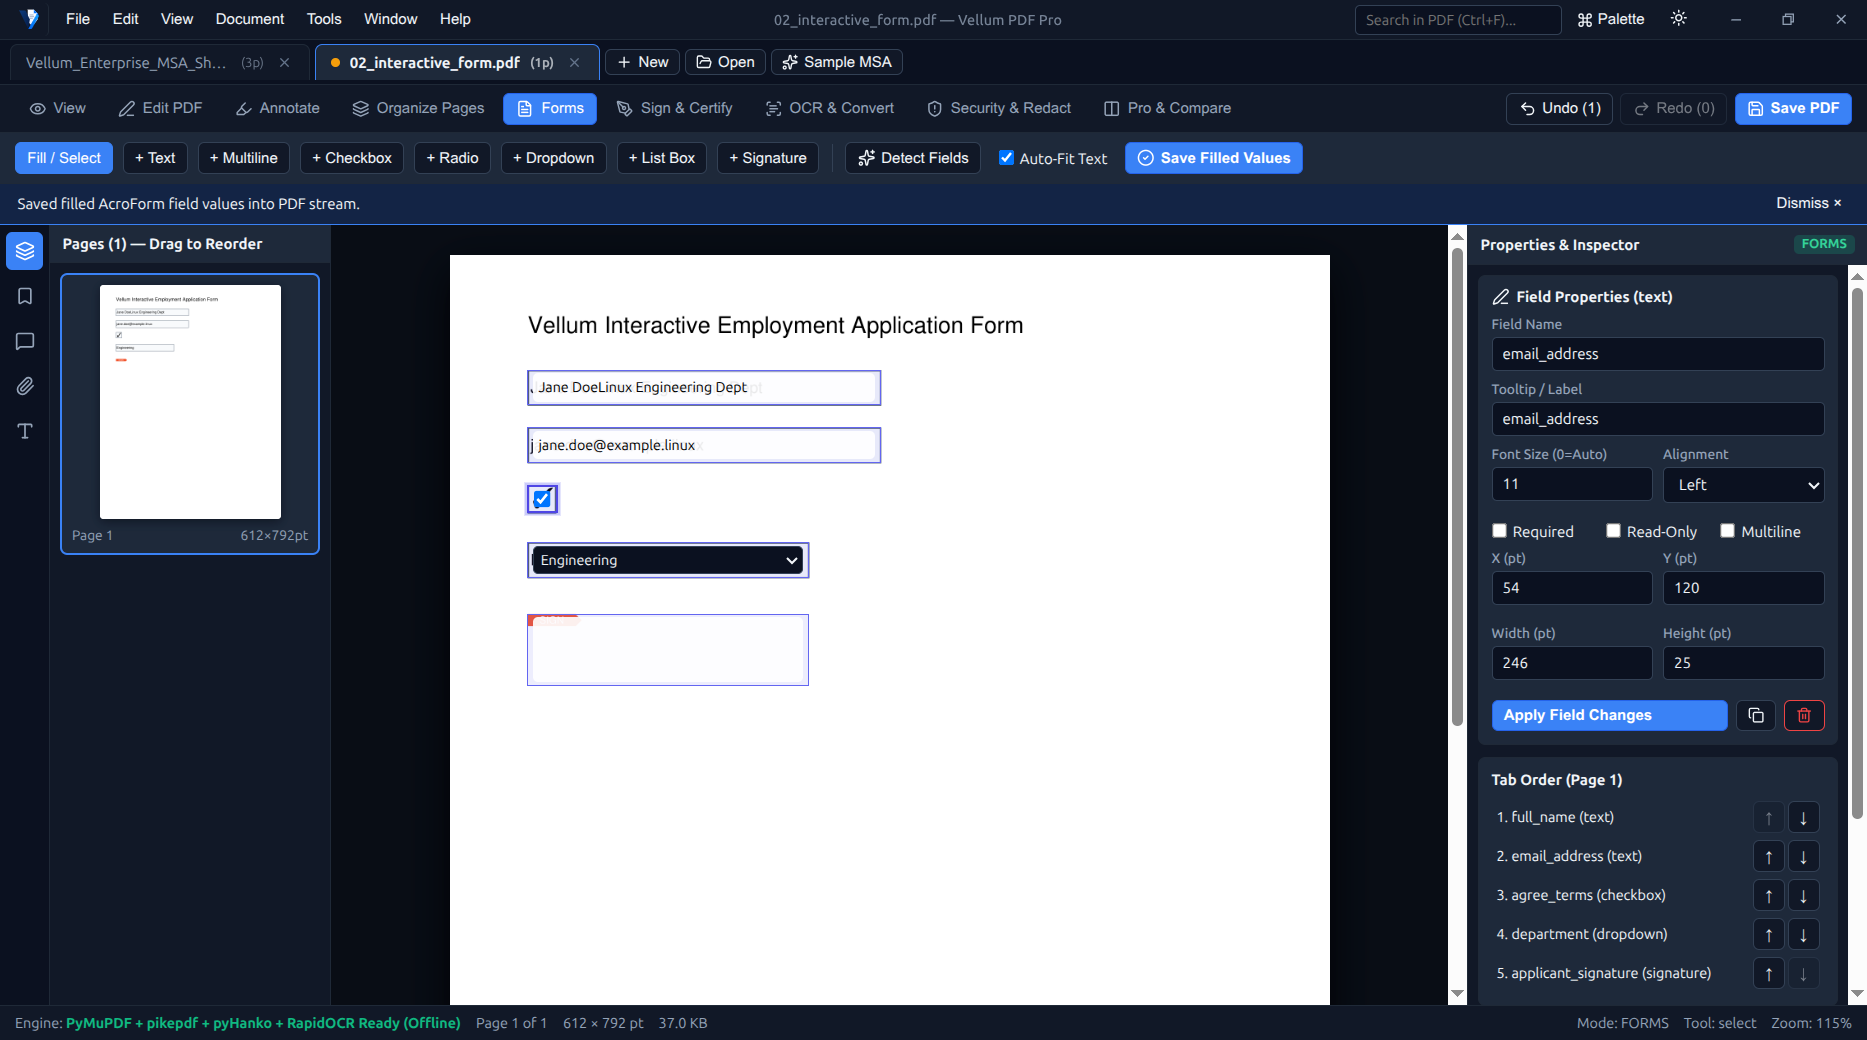
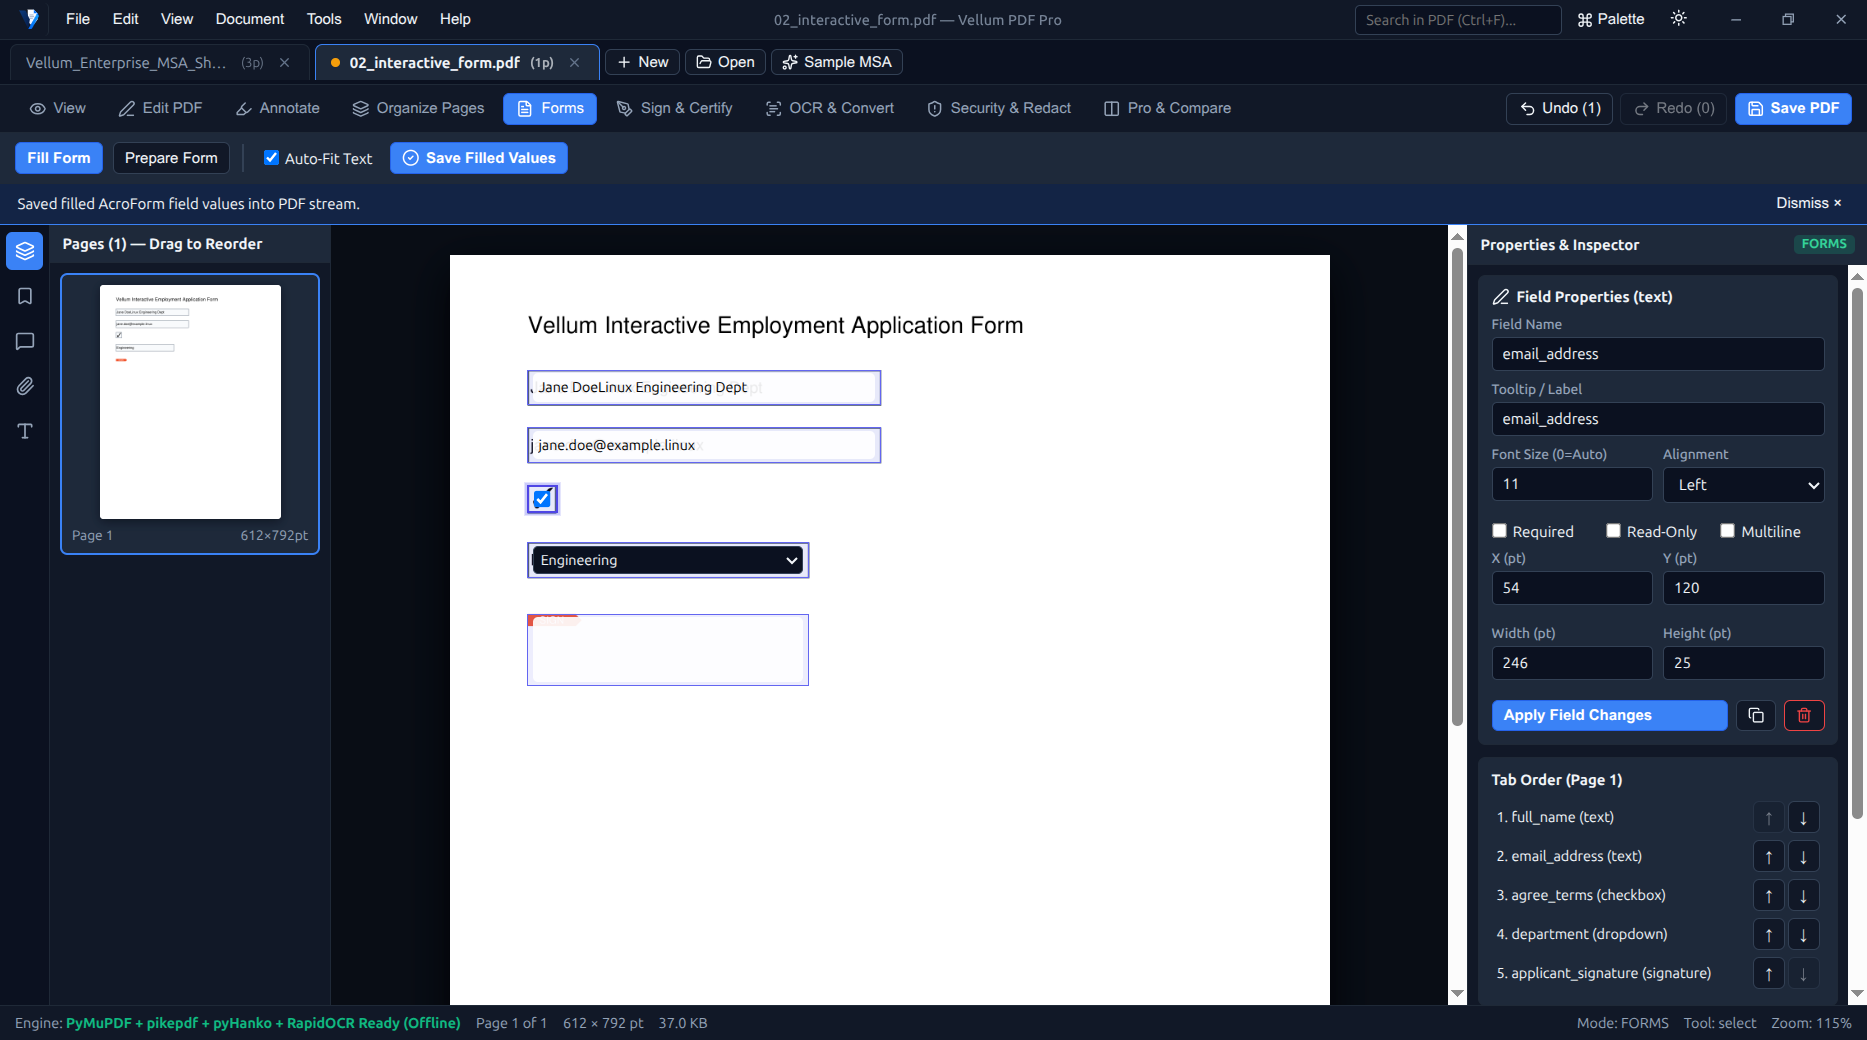
feat(forms): separate Fill Form and Prepare Form modes and rebuild packaged Linux AppImage

diff --git a/src/App.tsx b/src/App.tsx
@@ -332,6 +332,7 @@ export default function App() {
   const [formCandidates, setFormCandidates] = useState<FormFieldCandidate[]>([]);
   const [formFillWarnings, setFormFillWarnings] = useState<FormFillWarning[]>([]);
   const [formAutoFit, setFormAutoFit] = useState<boolean>(true);
+  const [formSubMode, setFormSubMode] = useState<'fill' | 'prepare'>('fill');
   const formWidgetRefs = useRef<Record<number, HTMLElement | null>>({});
 
   // Persistent Text Box Defaults (Black, Helvetica 11pt, Left, Transparent BG, No Border)
@@ -2933,67 +2934,174 @@ export default function App() {
 
           {mode === 'forms' && activeDoc && (
             <>
-              {(
-                [
-                  ['select', 'Fill / Select'],
-                  ['form-text', '+ Text'],
-                  ['form-multiline', '+ Multiline'],
-                  ['form-checkbox', '+ Checkbox'],
-                  ['form-radio', '+ Radio'],
-                  ['form-dropdown', '+ Dropdown'],
-                  ['form-listbox', '+ List Box'],
-                  ['form-signature', '+ Signature'],
-                ] as Array<[SubTool, string]>
-              ).map(([st, lbl]) => (
-                <button
-                  key={st}
-                  className={`tool-btn ${subTool === st ? 'active' : ''}`}
-                  onClick={() => setSubTool(st)}
-                >
-                  {lbl}
-                </button>
-              ))}
-              <div className="toolbar-divider" />
               <button
-                className="tool-btn"
-                onClick={async () => {
-                  const res = await pdfApi.detectFormCandidates(activeDoc.doc_id, currentPage);
-                  const cands = (res.candidates || []).map((c) => ({ ...c, accepted: true }));
-                  setFormCandidates(cands);
+                className={`tool-btn ${formSubMode === 'fill' ? 'primary' : ''}`}
+                onClick={() => {
+                  setFormSubMode('fill');
+                  setSubTool('select');
+                }}
+              >
+                Fill Form
+              </button>
+              <button
+                className={`tool-btn ${formSubMode === 'prepare' ? 'primary' : ''}`}
+                onClick={() => {
+                  setFormSubMode('prepare');
                   setRightOpen(true);
-                  notify(
-                    cands.length > 0
-                      ? `Detected ${cands.length} potential form field(s) on Page ${currentPage + 1}. Review & confirm in Inspector.`
-                      : `No static box/checkbox candidates detected on Page ${currentPage + 1}.`
-                  );
                 }}
               >
-                <Sparkles size={14} /> Detect Fields
+                Prepare Form
               </button>
-              <label style={{ display: 'flex', alignItems: 'center', gap: 4, fontSize: 12, padding: '0 6px' }}>
-                <input
-                  type="checkbox"
-                  checked={formAutoFit}
-                  onChange={(e) => setFormAutoFit(e.target.checked)}
-                />
-                Auto-Fit Text
-              </label>
-              <button
-                className="tool-btn primary"
-                onClick={async () => {
-                  const res = await pdfApi.fillFormFields(activeDoc.doc_id, formDraftValues, undefined, formAutoFit);
-                  const warns = res.warnings || [];
-                  setFormFillWarnings(warns);
-                  await refreshDocState(activeDoc.doc_id, currentPage, res.summary);
-                  if (warns.length > 0) {
-                    notify(`Saved form values with ${warns.length} fitting/length warning(s).`, 'warn');
-                  } else {
-                    notify('Saved filled AcroForm field values into PDF stream.');
-                  }
-                }}
-              >
-                <CheckCircle2 size={14} /> Save Filled Values
-              </button>
+              <div className="toolbar-divider" />
+              {formSubMode === 'fill' ? (
+                <>
+                  <label style={{ display: 'flex', alignItems: 'center', gap: 4, fontSize: 12, padding: '0 6px' }}>
+                    <input
+                      type="checkbox"
+                      checked={formAutoFit}
+                      onChange={(e) => setFormAutoFit(e.target.checked)}
+                    />
+                    Auto-Fit Text
+                  </label>
+                  <button
+                    className="tool-btn primary"
+                    onClick={async () => {
+                      const res = await pdfApi.fillFormFields(activeDoc.doc_id, formDraftValues, undefined, formAutoFit);
+                      const warns = res.warnings || [];
+                      setFormFillWarnings(warns);
+                      await refreshDocState(activeDoc.doc_id, currentPage, res.summary);
+                      if (warns.length > 0) {
+                        notify(`Saved form values with ${warns.length} fitting/length warning(s).`, 'warn');
+                      } else {
+                        notify('Saved filled AcroForm field values into PDF stream.');
+                      }
+                    }}
+                  >
+                    <CheckCircle2 size={14} /> Save Filled Values
+                  </button>
+                  {pageFormFields.length === 0 && (
+                    <button
+                      className="tool-btn"
+                      onClick={async () => {
+                        setFormSubMode('prepare');
+                        setSubTool('select');
+                        const res = await pdfApi.detectFormCandidates(activeDoc.doc_id, currentPage);
+                        const cands = (res.candidates || []).map((c) => ({ ...c, accepted: true }));
+                        setFormCandidates(cands);
+                        setRightOpen(true);
+                        notify(
+                          cands.length > 0
+                            ? `Switched to Prepare Form and detected ${cands.length} candidate field(s) on Page ${currentPage + 1}.`
+                            : `Switched to Prepare Form. No static candidates detected on Page ${currentPage + 1}.`
+                        );
+                      }}
+                    >
+                      <Sparkles size={14} /> Detect Fields
+                    </button>
+                  )}
+                </>
+              ) : (
+                <>
+                  <button
+                    className="tool-btn"
+                    onClick={async () => {
+                      const res = await pdfApi.detectFormCandidates(activeDoc.doc_id, currentPage);
+                      const cands = (res.candidates || []).map((c) => ({ ...c, accepted: true }));
+                      setFormCandidates(cands);
+                      setRightOpen(true);
+                      notify(
+                        cands.length > 0
+                          ? `Detected ${cands.length} potential form field(s) on Page ${currentPage + 1}. Review overlays or Inspector, then Confirm.`
+                          : `No static box/checkbox candidates detected on Page ${currentPage + 1}.`
+                      );
+                    }}
+                  >
+                    <Sparkles size={14} /> Detect Fields
+                  </button>
+                  {formCandidates.length > 0 && (
+                    <>
+                      <button
+                        className="tool-btn primary"
+                        onClick={async () => {
+                          let lastSummary = activeDoc;
+                          for (const c of formCandidates) {
+                            const res = await pdfApi.createFormField(activeDoc.doc_id, {
+                              page_index: c.page_index,
+                              field_type: c.field_type,
+                              field_name: c.field_name,
+                              bbox: c.bbox,
+                              multiline: c.field_type === 'multiline',
+                              tooltip: c.label,
+                              fill_color_hex: 'transparent',
+                              border_color_hex: 'transparent',
+                            });
+                            lastSummary = res.summary;
+                          }
+                          const count = formCandidates.length;
+                          setFormCandidates([]);
+                          setFormSubMode('fill');
+                          setSubTool('select');
+                          await refreshDocState(activeDoc.doc_id, currentPage, lastSummary);
+                          notify(`Accepted and inserted all ${count} detected form field(s).`);
+                        }}
+                      >
+                        Accept All ({formCandidates.length})
+                      </button>
+                      <button
+                        className="tool-btn"
+                        onClick={async () => {
+                          const selected = formCandidates.filter((c) => c.accepted !== false);
+                          let lastSummary = activeDoc;
+                          for (const c of selected) {
+                            const res = await pdfApi.createFormField(activeDoc.doc_id, {
+                              page_index: c.page_index,
+                              field_type: c.field_type,
+                              field_name: c.field_name,
+                              bbox: c.bbox,
+                              multiline: c.field_type === 'multiline',
+                              tooltip: c.label,
+                              fill_color_hex: 'transparent',
+                              border_color_hex: 'transparent',
+                            });
+                            lastSummary = res.summary;
+                          }
+                          setFormCandidates([]);
+                          setFormSubMode('fill');
+                          setSubTool('select');
+                          await refreshDocState(activeDoc.doc_id, currentPage, lastSummary);
+                          notify(`Inserted ${selected.length} confirmed form field(s).`);
+                        }}
+                      >
+                        Confirm Selected ({formCandidates.filter((c) => c.accepted !== false).length})
+                      </button>
+                      <button className="tool-btn" onClick={() => setFormCandidates([])}>
+                        Cancel
+                      </button>
+                    </>
+                  )}
+                  <div className="toolbar-divider" />
+                  {(
+                    [
+                      ['select', 'Select / Adjust'],
+                      ['form-text', '+ Text'],
+                      ['form-multiline', '+ Multiline'],
+                      ['form-checkbox', '+ Checkbox'],
+                      ['form-radio', '+ Radio'],
+                      ['form-dropdown', '+ Dropdown'],
+                      ['form-listbox', '+ List Box'],
+                      ['form-signature', '+ Signature'],
+                    ] as Array<[SubTool, string]>
+                  ).map(([st, lbl]) => (
+                    <button
+                      key={st}
+                      className={`tool-btn ${subTool === st ? 'active' : ''}`}
+                      onClick={() => setSubTool(st)}
+                    >
+                      {lbl}
+                    </button>
+                  ))}
+                </>
+              )}
             </>
           )}
 
@@ -3922,7 +4030,7 @@ export default function App() {
                               }}
                             />
                           )}
-                          {mode === 'forms' && selectedField?.xref === fld.xref && activeDoc && (
+                          {mode === 'forms' && formSubMode === 'prepare' && selectedField?.xref === fld.xref && activeDoc && (
                             <>
                               <div
                                 className="form-widget-move-handle"
@@ -4055,6 +4163,7 @@ export default function App() {
 
                 {/* Detected Form Field Candidates Overlay */}
                 {mode === 'forms' &&
+                  formSubMode === 'prepare' &&
                   formCandidates
                     .filter((c) => c.page_index === currentPage)
                     .map((cand) => {
@@ -4082,7 +4191,50 @@ export default function App() {
                             zIndex: 9,
                             boxSizing: 'border-box',
                           }}
-                        />
+                        >
+                          <div
+                            className="form-candidate-resize-handle"
+                            title="Drag to adjust candidate boundary"
+                            onClick={(e) => e.stopPropagation()}
+                            onMouseDown={(e) => {
+                              e.stopPropagation();
+                              e.preventDefault();
+                              const startX = e.clientX;
+                              const startY = e.clientY;
+                              const origBbox = [...cand.bbox] as [number, number, number, number];
+                              const onMove = (mv: MouseEvent) => {
+                                const dx = (mv.clientX - startX) / zoom;
+                                const dy = (mv.clientY - startY) / zoom;
+                                const nextBbox: [number, number, number, number] = [
+                                  origBbox[0],
+                                  origBbox[1],
+                                  Math.max(origBbox[0] + 12, origBbox[2] + dx),
+                                  Math.max(origBbox[1] + 10, origBbox[3] + dy),
+                                ];
+                                setFormCandidates((prev) =>
+                                  prev.map((c) => (c.id === cand.id ? { ...c, bbox: nextBbox } : c))
+                                );
+                              };
+                              const onUp = () => {
+                                window.removeEventListener('mousemove', onMove);
+                                window.removeEventListener('mouseup', onUp);
+                              };
+                              window.addEventListener('mousemove', onMove);
+                              window.addEventListener('mouseup', onUp);
+                            }}
+                            style={{
+                              position: 'absolute',
+                              right: -4,
+                              bottom: -4,
+                              width: 8,
+                              height: 8,
+                              background: isAccepted ? '#16a34a' : '#64748b',
+                              border: '1px solid #fff',
+                              borderRadius: 2,
+                              cursor: 'nwse-resize',
+                            }}
+                          />
+                        </div>
                       );
                     })}
 

diff --git a/GEICO_FORM_VALIDATION_REPORT.md b/GEICO_FORM_VALIDATION_REPORT.md
@@ -56,7 +56,7 @@
 
 | Viewer / Engine | Tested? | Result |
 | :--- | :--- | :--- |
-| **Vellum PDF Pro (Electron GUI)** | Yes (`verify_geico_form_gui.cjs`) | All 34 candidate overlays detected, accepted, filled directly on canvas, saved, and reopened cleanly with all values & checkboxes intact. |
+| **Vellum PDF Pro (Packaged Linux AppImage)** | Yes (`verify_geico_form_gui.cjs` on `release/Vellum_PDF_Pro-1.0.0-x86_64.AppImage`) | Switched to **Forms → Prepare Form → Detect Fields**, verified **Accept All (34)** / **Confirm Selected (34)** / **Cancel** toolbar controls & 34 `.form-candidate-box` overlays, converted all 34 widgets, filled directly in **Fill Form** mode, saved, and reopened cleanly. |
 | **PyMuPDF (`fitz`)** | Yes (`test_geico_form_validation.py`) | Verified 34 widgets, saved field values, checkbox states, and preserved static labels/footer. |
 | **pypdfium2** | Yes (`test_geico_form_validation.py`) | Rendered completed form at `1.5×` scale cleanly (`>800×1000 px`). |
 | **Poppler (`pdftotext` & `pdftoppm`)** | Yes (`test_geico_form_validation.py`) | `pdftotext` preserved all static text; `pdftoppm -png -r 120` rendered all filled text and checkbox marks cleanly with zero clipping. |
